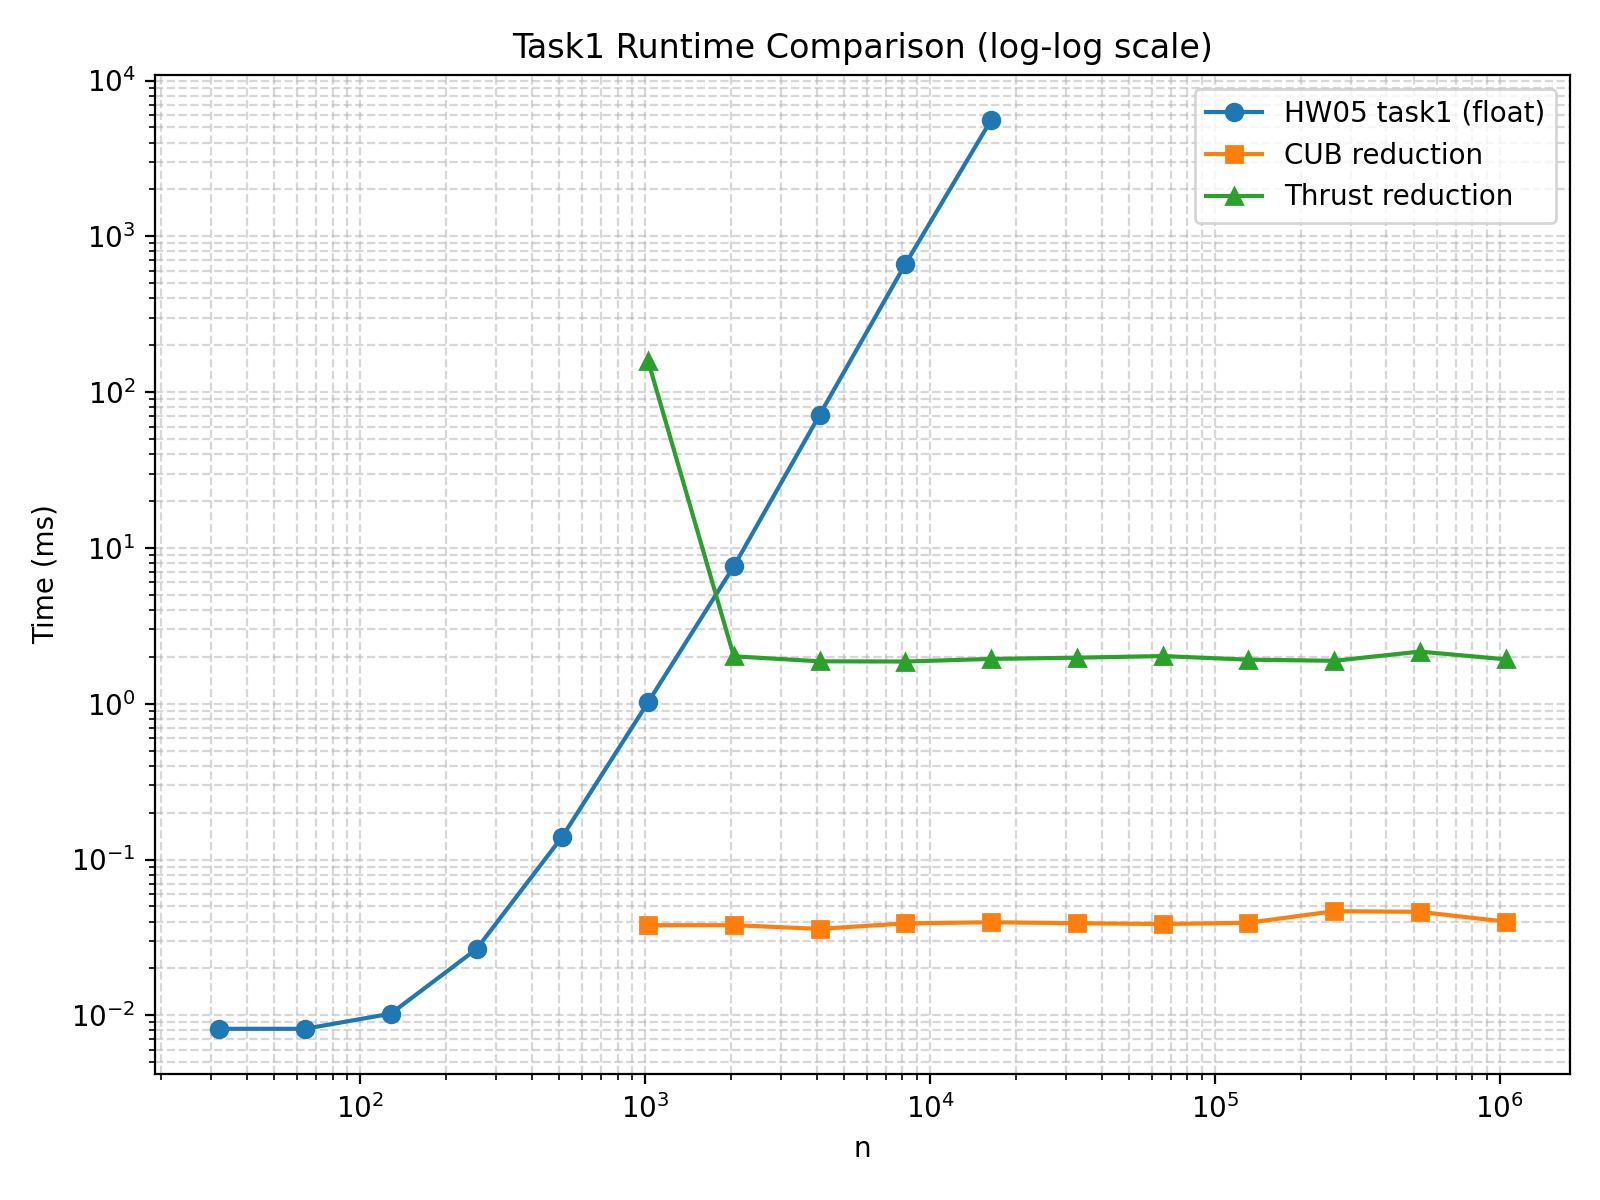
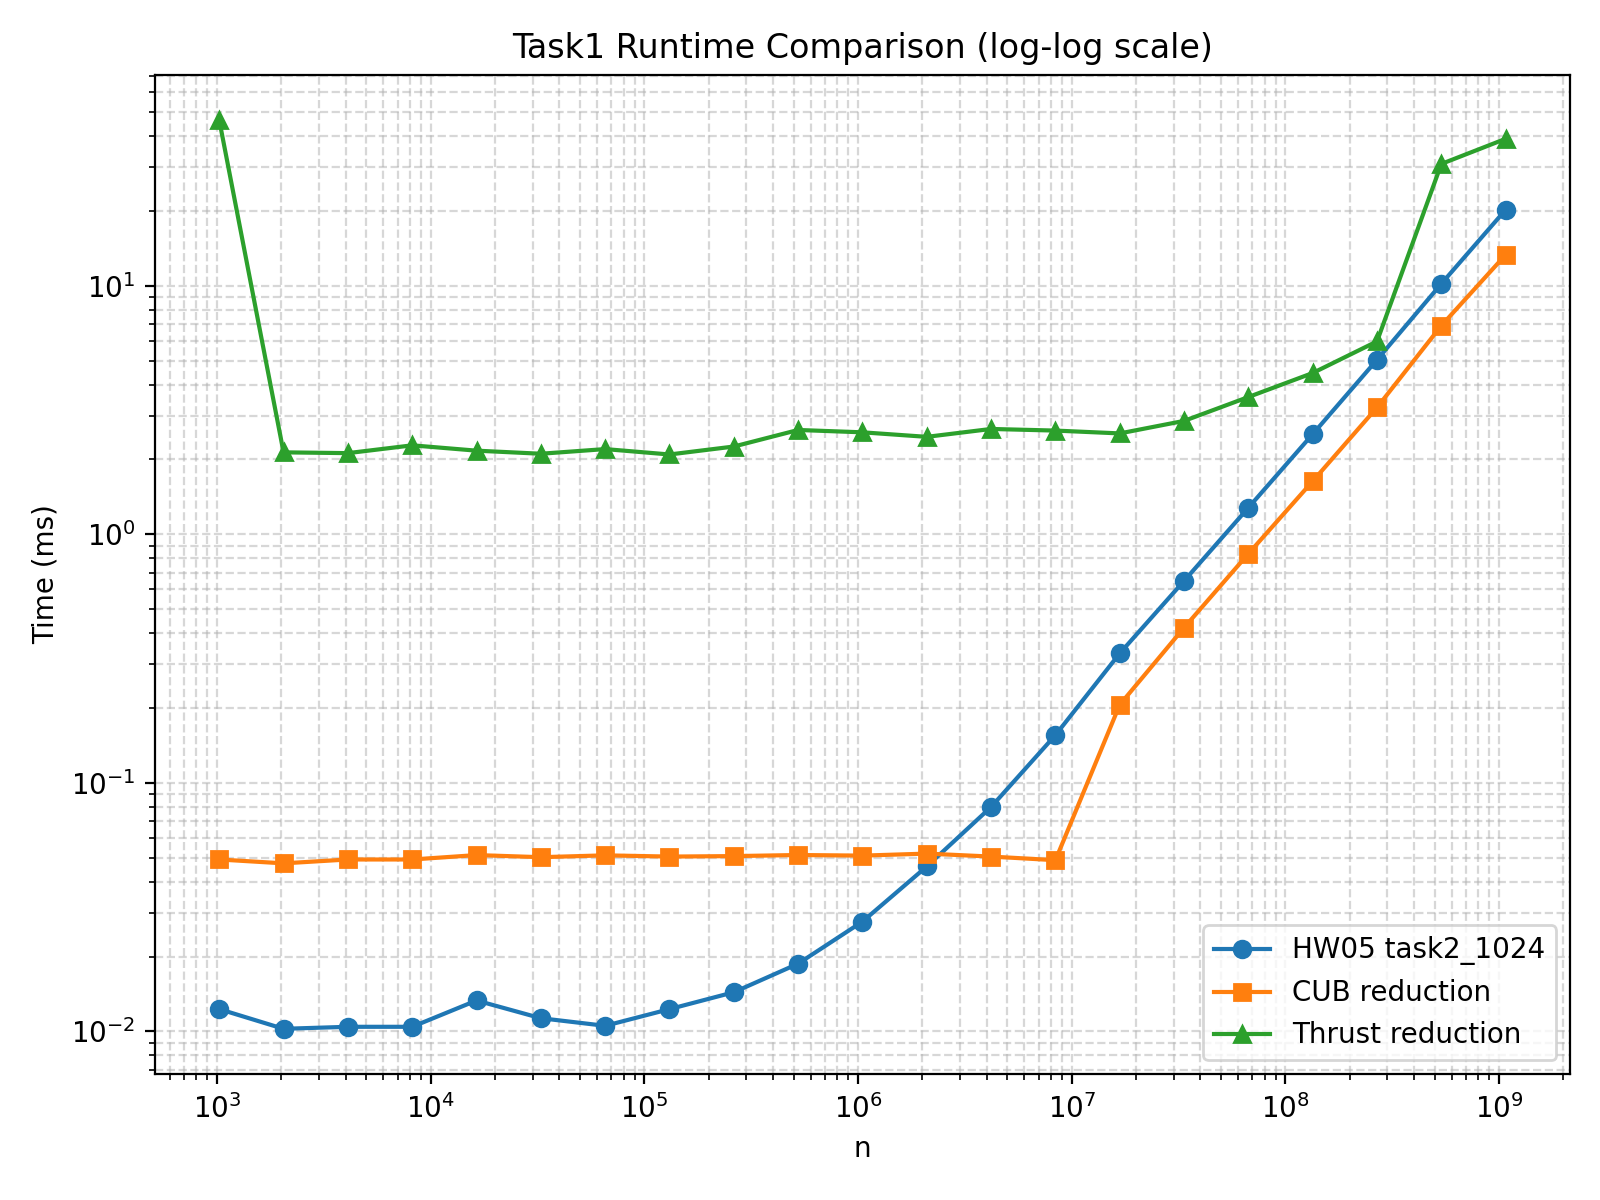
d

Changed region(s): [[0.0312, 0.0617, 1.0, 0.925], [0.0312, 0.7092, 0.0625, 0.74]]

diff --git a/HW07/overlay_task1_plot.py b/HW07/overlay_task1_plot.py
@@ -3,7 +3,7 @@ import matplotlib.pyplot as plt
 from pathlib import Path
 
 # Input files
-n_sweep_file = Path('n_sweep.csv')
+n_sweep_file = Path('task2_1024.csv')
 cub_file = Path('task1_cub_times.csv')
 thrust_file = Path('task1_thrust_times.csv')
 
@@ -13,14 +13,14 @@ cub = pd.read_csv(cub_file)
 thrust = pd.read_csv(thrust_file)
 
 # Keep only the columns we need from n_sweep
-if 'n' not in n_sweep.columns or 'float_ms' not in n_sweep.columns:
-    raise ValueError("n_sweep.csv must contain columns 'n' and 'float_ms'.")
+if 'n' not in n_sweep.columns or 'time_ms' not in n_sweep.columns:
+    raise ValueError("n_sweep.csv must contain columns 'n' and 'time_ms'.")
 if 'n' not in cub.columns or 'time_ms' not in cub.columns:
     raise ValueError("task1_cub_times.csv must contain columns 'n' and 'time_ms'.")
 if 'n' not in thrust.columns or 'time_ms' not in thrust.columns:
     raise ValueError("task1_thrust_times.csv must contain columns 'n' and 'time_ms'.")
 
-n_sweep_plot = n_sweep[['n', 'float_ms']].copy().dropna()
+n_sweep_plot = n_sweep[['n', 'time_ms']].copy().dropna()
 n_sweep_plot = n_sweep_plot.sort_values('n')
 
 cub_plot = cub[['n', 'time_ms']].copy().dropna()
@@ -32,7 +32,7 @@ thrust_plot = thrust_plot.sort_values('n')
 # Plot all three curves together.
 # Because n_sweep may use different n values, matplotlib will still overlay them correctly.
 plt.figure(figsize=(8, 6))
-plt.loglog(n_sweep_plot['n'], n_sweep_plot['float_ms'], marker='o', label='HW05 task1 (float)')
+plt.loglog(n_sweep_plot['n'], n_sweep_plot['time_ms'], marker='o', label='HW05 task2_1024')
 plt.loglog(cub_plot['n'], cub_plot['time_ms'], marker='s', label='CUB reduction')
 plt.loglog(thrust_plot['n'], thrust_plot['time_ms'], marker='^', label='Thrust reduction')
 
